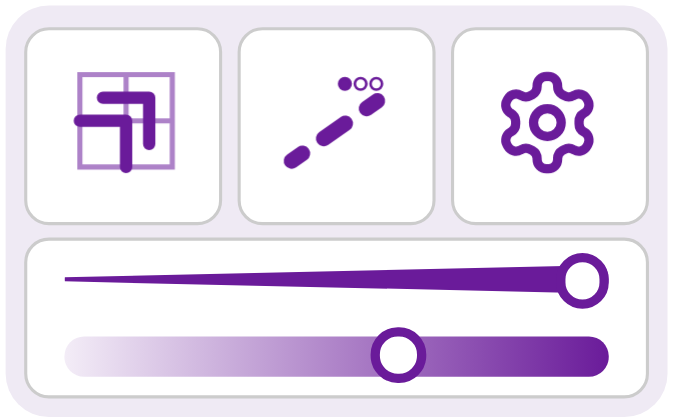
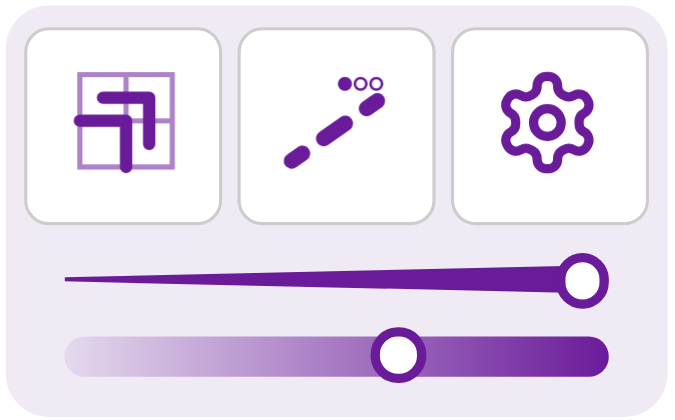
Pen Tool Extras: drop the button box behind the panel sliders (#258) (#262)
* Pen Tool Extras: drop the button box behind the panel sliders

The sliders sit on the light tray since #254, so the box no longer helps on Dark Page.
Live tests updated; the site's sliders, settings and panel pictures retaken.

Closes #258

* Pen Tool Extras: bump to 1.23.0, fix the comment and doc line about the removed box, check Dark Page is on

Closes #258

---------

Changed region(s): [[0.0311, 0.5571, 0.9644, 0.9595]]

diff --git a/pen-tool-extras.user.js b/pen-tool-extras.user.js
@@ -1,7 +1,7 @@
 // ==UserScript==
 // @name         SudokuPad Pen Tool Extras
 // @namespace    https://github.com/caneff/sudokupad-scripts
-// @version      1.22.0
+// @version      1.23.0
 // @description  Adds to SudokuPad's pen tool: pen colors that match your cell colors, dashed and arrow lines, and marks on cell edges and grid corners. Turn the pen tool on in SudokuPad's settings first.
 // @homepageURL  https://caneff.github.io/sudokupad-scripts/pen-tool-extras.html
 // @match        https://sudokupad.app/*
@@ -21,7 +21,7 @@
 
   // 1. Core: the settings table, the install step guard, the style writer and shared constants
   // The script cannot read its own header (GM_info is absent without Tampermonkey), so @version is repeated here.
-  const VERSION = '1.22.0'
+  const VERSION = '1.23.0'
   const SETTINGS_GROUP = 'experimental'
   const STYLE_ID = 'pen-tool-extras-style'
   const GRID_SELECTOR = '#svgrenderer'
@@ -1642,7 +1642,6 @@
   const OPACITY_SLIDER = 'pen-tool-extras-opacity'
   const SLIDERS = 'pen-tool-extras-sliders'
   const SLIDER_ROW = 'pen-tool-extras-slider'
-  const SLIDERS_BOX = 'pen-tool-extras-sliders-box'
   // SudokuPad's line mode pulldown (hidden here, stepped by the panel's line mode button), the key it saves the mode under, and its three values with SudokuPad's labels.
   const LINE_MODE_BOX = '.tool-pen .penlinemode'
   const LINE_MODE_KEY = 'ToolPen_linemode'
@@ -1690,7 +1689,6 @@
   const THUMB_SHAPE = `box-sizing: border-box; width: ${SLIDER_THUMB_REM}rem; height: ${SLIDER_THUMB_REM}rem; border-radius: 50%; background: #fff; border: ${SLIDER_THUMB_RING_REM}rem solid ${PANEL_COLOR};`
   // A hidden slider's empty row has the same height, so the other keeps its place.
   const SLIDER_ROW_HEIGHT_REM = 1.4
-  // The sliders block's box is a real `button` behind the sliders, so SudokuPad's button styling (and Dark Page's) reaches it wherever it changes; its background is `var(--body-bg)` as on the pad's pen buttons.
   // Each color button keeps `position: relative`, since its color line is its `::after`. The row of buttons is ordered by `order`, so a missing line type button leaves no hole.
   const CONTROL_BUTTONS = [MODE_BUTTON, PAGE_BUTTON, SETTINGS_BUTTON]
   const controlButtons = CONTROL_BUTTONS.map((name) => `.tool-pen .controls-input button.${name}`).join(', ')
@@ -1708,7 +1706,6 @@
     // SudokuPad's Keypad Flipped swaps the first and third rows of colors with a transform on each `.button-row`, which has no box here, so the rows are swapped by grid row.
     ...[[1, 2, 3, COLOR_ROWS], [7, 8, 9, 1]].flatMap(([a, b, c, row]) => [a, b, c].map((key) => `.setting-flipkeypad .tool-pen .controls-input button[data-key="${key}"] { grid-row: ${row}; }`)),
     `.${SLIDERS} { grid-row: ${SLIDERS_ROW}; grid-column: 1 / ${PANEL_COLUMNS + 1}; justify-self: stretch; align-self: stretch; position: relative; z-index: 1; box-sizing: border-box; margin: ${PANEL_BUTTON_MARGIN_REM}rem ${PANEL_BUTTON_MARGIN_REM}rem ${TRAY_PADDING_REM}rem; padding: 0 0.8rem; display: flex; flex-direction: column; justify-content: space-evenly; color: ${PANEL_COLOR}; }`,
-    `.tool-pen .controls-input button.${SLIDERS_BOX} { position: absolute; z-index: -1; inset: 0; width: auto; height: auto; margin: 0; padding: 0; background-color: var(--body-bg); pointer-events: none; }`,
     `.${SLIDER_ROW} { display: flex; align-items: center; gap: 0.4rem; height: ${SLIDER_ROW_HEIGHT_REM}rem; }`,
     `.${SLIDER_ROW} input { flex: 1; min-width: 0; margin: 0; height: ${SLIDER_ROW_HEIGHT_REM}rem; background: transparent; -webkit-appearance: none; appearance: none; }`,
     `.${SLIDER_ROW} input::-webkit-slider-runnable-track { ${TRACK_SHAPE} }`,
@@ -1756,7 +1753,7 @@
       ? `<div class="${SLIDER_ROW}" title="${label}">` +
         `<input type="range" id="${id}" aria-label="${label}" tabindex="-1" min="${range.min}" max="${range.max}" step="${range.step}" value="${value}"></div>`
       : `<div class="${SLIDER_ROW}" data-empty></div>`
-    return `<div class="${SLIDERS}"><button class="${SLIDERS_BOX}" tabindex="-1" aria-hidden="true"></button>` +
+    return `<div class="${SLIDERS}">` +
       row(show.thickness, THICKNESS_SLIDER, 'Thickness', THICKNESS, thickness) +
       row(show.opacity, OPACITY_SLIDER, 'Opacity', OPACITY, opacity) +
       '</div>'

diff --git a/pen-tool-extras.test.js b/pen-tool-extras.test.js
@@ -478,7 +478,7 @@ test('the panel markup has Thickness above Opacity, each with the range and valu
   ])
   assert.deepEqual([...html.matchAll(/aria-label="([^"]+)"/g)].map((m) => m[1]), ['Thickness', 'Opacity'])
   assert.equal(html.match(/<input [^>]*tabindex="-1"/g).length, 2)
-  assert.match(html, /<button [^>]*tabindex="-1" aria-hidden="true"><\/button>/)
+  assert.doesNotMatch(html, /<button/)
 })
 
 test('the hold that opens edit mode lasts 1000 ms, the same as SudokuPad\'s color tool', () => {
@@ -1070,7 +1070,7 @@ test('a hidden slider has no input, and the other keeps its place beside an empt
   assert.deepEqual(only('thickness'), ['pen-tool-extras-thickness'])
   assert.deepEqual(only('opacity'), ['pen-tool-extras-opacity'])
   const html = renderPanelSliders(9, 35, { thickness: false, opacity: true })
-  assert.match(html, /^<div class="pen-tool-extras-sliders"><button [^>]*><\/button><div class="pen-tool-extras-slider" data-empty><\/div><div class="pen-tool-extras-slider"/)
+  assert.match(html, /^<div class="pen-tool-extras-sliders"><div class="pen-tool-extras-slider" data-empty><\/div><div class="pen-tool-extras-slider"/)
   const low = renderPanelSliders(9, 35, { thickness: true, opacity: false })
   assert.match(low, /<div class="pen-tool-extras-slider" data-empty><\/div><\/div>$/)
 })
@@ -1436,18 +1436,16 @@ test('the tray is #efeaf4 with 14px corners, reaches 0.25rem past the color bloc
   assert.equal(PANEL_CSS.includes('.tool-pen .controls-input:not(:has(.pen-tool-extras-sliders)) .pen-tool-extras-tray { grid-row: 4 / 5; margin-bottom: -0.25rem; }'), true, 'with no sliders the tray ends under the controls, with an end line since a box placed by its start alone runs to the panel\'s edge')
 })
 
-test('the sliders block spans the three columns of the fifth grid row, with the buttons\' margin and 0.4rem below, over a real button for its box', () => {
+test('the sliders block spans the three columns of the fifth grid row, with the buttons\' margin and 0.4rem below, and draws no box of its own', () => {
   const rule = ruleOf('.pen-tool-extras-sliders')
   assert.match(rule, /grid-row: 5; grid-column: 1 \/ 4;/)
   assert.match(rule, /box-sizing: border-box;/)
   assert.match(rule, /margin: 0\.15rem 0\.15rem 0\.4rem;/)
   assert.doesNotMatch(rule, /border:|background/)
-  assert.match(renderPanelSliders(9, 35, { thickness: true, opacity: true }), /^<div class="pen-tool-extras-sliders"><button class="pen-tool-extras-sliders-box" tabindex="-1" aria-hidden="true"><\/button>/)
-  const box = ruleOf('.tool-pen .controls-input button.pen-tool-extras-sliders-box')
-  assert.match(box, /position: absolute; z-index: -1; inset: 0;/)
   assert.match(rule, /z-index: 1;/)
-  assert.match(box, /background-color: var\(--body-bg\);/)
-  assert.match(box, /pointer-events: none;/)
+  assert.match(renderPanelSliders(9, 35, { thickness: true, opacity: true }), /^<div class="pen-tool-extras-sliders"><div class="pen-tool-extras-slider"/)
+  assert.doesNotMatch(renderPanelSliders(9, 35, { thickness: true, opacity: true }), /<button/)
+  assert.equal(PANEL_CSS.includes('sliders-box'), false)
 })
 
 test('the settings button is a button named Pen Tool Extras settings, drawing an outline gear in the panel color and no fill', () => {

diff --git a/docs/pen-tool-extras.md b/docs/pen-tool-extras.md
@@ -17,7 +17,7 @@ With the pen tool on, its panel is the same size as SudokuPad's, laid out in thr
 
 - **The colors**: the nine pen color buttons, three to a row, 2.5rem tall instead of 4rem.
 - **The controls**: under the colors, one row of three full-size buttons on the same columns, in this order: the line mode button, the line type button (the page button) and the settings button. The settings button, an outline gear, opens the settings dialog.
-- **The sliders**: Thickness and Opacity in a button-style box across the full width, in the row under the controls.
+- **The sliders**: Thickness and Opacity across the full width, in the row under the controls, on the same tray.
 
 Keypad Flipped still swaps the first and third rows of colors. The controls and the sliders sit on a light purple tray with round corners. SudokuPad's own key 0 and Delete buttons stay hidden. Each of the three control icons is drawn at the same size and centred on its drawing. The settings icon is Lucide's `settings` (ISC licence).
 
